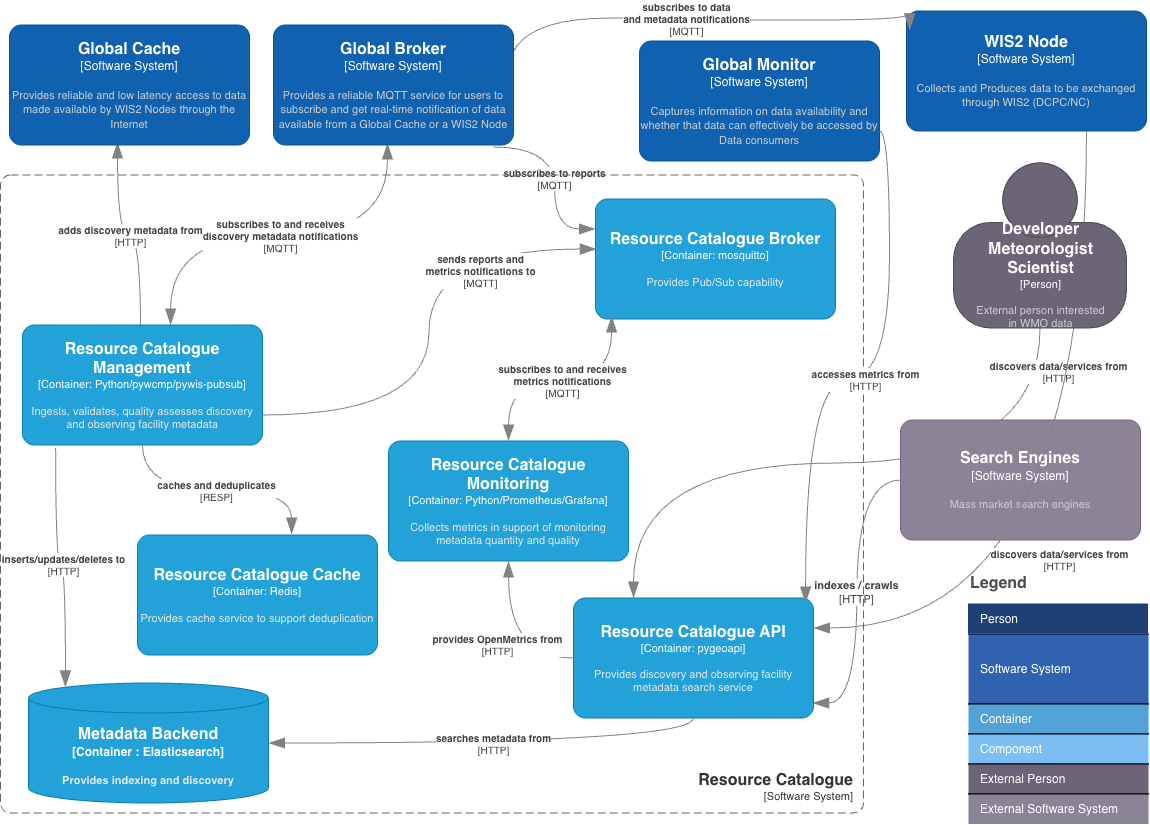
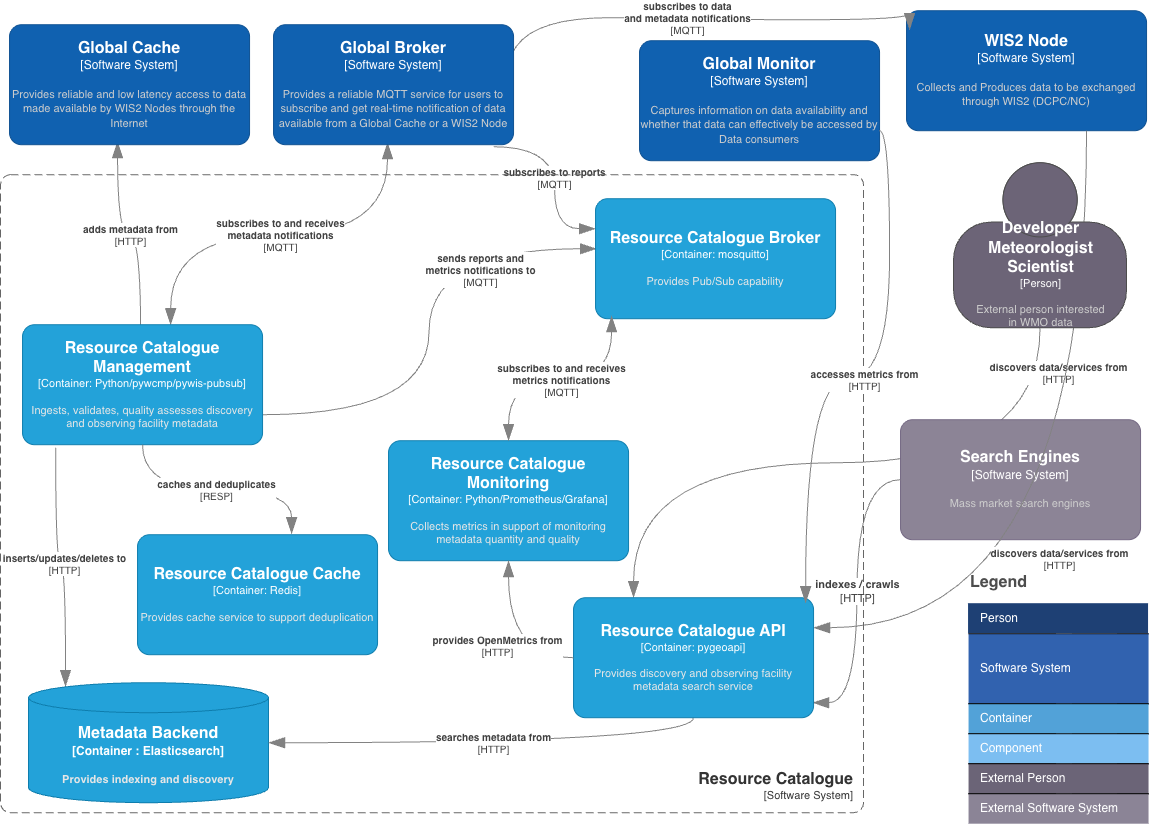
update docs

diff --git a/docs/source/services.rst b/docs/source/services.rst
@@ -37,20 +37,23 @@ OpenAPI/Swagger
 ^^^^^^^^^^^^^^^
 
 The easiest way to test the WMO Resource Catalogue API is using the Swagger endpoint, which allows for testing various capabilities
-and queries into the GDC.
+and queries into the WIS2 GDC and/or WIGOS GOFC.
 
 .. image:: /_static/wmo-resource-catalogue-api-swagger.png
    :width: 80%
    :alt: GDC API Swagger endpoint
 
-Discovery
-^^^^^^^^^
+.. note::
 
-The GDC API allows for a wide range of query predicates to search for data in WIS2 as per the OGC API - Records - Part 1: Core specification.
+   Examples are not URL encoded for clarity / readability, but should be when interacting with the WIS2 GDC API.
 
-The GDC can be searched via the ``/collections/wis2-discovery-metadata/items`` endpoint.  This endpoint provides a number query parameters as described in the examples below.
+WIS2 GDC
+^^^^^^^^
 
-**NOTE**: examples below are not URL encoded for clarity / readability, but should be when interacting with the GDC API.
+The WIS2 GDC API allows for a wide range of query predicates to search for data as per the OGC API - Records - Part 1: Core specification.
+
+The WIS2 GDC API can be searched via the ``/collections/wis2-discovery-metadata/items`` endpoint.  This endpoint provides a number query parameters as described in the examples below.
+
 
 Spatial queries
 """""""""""""""
@@ -142,9 +145,9 @@ Programmatically, a GDC client can query the catalogue and filter the results fo
 Using the ``href`` and ``channel`` properties of a matching link object, a client can connect and subscribe to data notifications for a given dataset.
 
 Validation and quality assessment
-^^^^^^^^^^^^^^^^^^^^^^^^^^^^^^^^^
+"""""""""""""""""""""""""""""""""
 
-The GDC API provides processes to validate WCMP2 records (required by WIS2) and perform quality assessment as a value added service.  Both processes
+The WIS2 GDC API provides processes to validate WCMP2 records (required by WIS2) and perform quality assessment as a value added service.  Both processes
 utilize the `pywcmp`_ package to achieve this capability.
 
 The Swagger interface will provide a sample WCMP2 record as part of the JSON request payload example.  To validate a specific WCMP2, copy/paste the
@@ -153,19 +156,41 @@ as the value of the ``record`` property.
 
 Interfaces for both ETS validation and KPI quality assessment take the same inputs and provide similar output reports.
 
-.. image:: /_static/wmo-resource-catalogue-api-swagger-process-ets.png
+.. image:: /_static/wmo-resource-catalogue-wis2-gdc-api-swagger-process-ets.png
    :width: 80%
    :alt: WMO Resource Catalogue API Swagger Process for WCMP2 validation
+
+
+WIGOS GOFC
+^^^^^^^^^^
+
+The WIGOS GOFC API allows for a wide range of query predicates to search for data as per the OGC API - Records - Part 1: Core specification.
+
+The WIGOS GOFC API can be searched via the ``/collections/wigos-observing-facility-metadata/items`` endpoint. This endpoint provides a number query parameters as described in the examples below.
+
+
+TODO: add examples
+
+Validation and quality assessment
+"""""""""""""""""""""""""""""""""
+
+The WIGOS GOFC API provides processes to validate WMDR2 records as a value added service, utilizing the `pywmdr`_ package to achieve this capability.
+
+The Swagger interface will provide a sample WMDR2 record as part of the JSON request payload example.  To validate a specific WMDR2, copy/paste the WCMP2 record, replacing the contents of the ``record`` property in the example request payload.  If the WMDR2 record is a link, provide the link instead, as the value of the ``record`` property.
+
+.. image:: /_static/wmo-resource-catalogue-wigos-gofc-api-swagger-process-ets.png
+   :width: 80%
+   :alt: WMO Resource Catalogue API Swagger Process for WMDR2 validation
 
 Metrics
 -------
 
-wis2-gdc generates metrics on a daily basis (at 1h) as per the WIS2 Guide Technical Considerations for GDC.  The reuslting metrics are made available at ``/wis2-gdc-metrics.txt`` and made available as per the `OpenMetrics`_ standard.
+wmo-resource-catalogue generates metrics on a daily basis (at 1h) as per the WIS2 Guide Technical Considerations for GDC.  The resulting metrics are made available at ``/wis2-gdc-metrics.txt`` and made available as per the `OpenMetrics`_ standard.
 
 Additional endpoints
 --------------------
 
-In addition to OGC API interfaces, wis2-gdc provides the following additional endpoints:
+In addition to OGC API interfaces, wmo-resource-catalogue also provides the following endpoints:
 
 - ``/wis2-discovery-metadata-archive.zip``: WIS2 Discovery Metadata archive (generated daily)
 - ``/wigos-observing-facility-metadata-archive.zip``: WIGOS Observing Facility Metadata archive (generated daily)
@@ -178,4 +203,5 @@ In addition to OGC API interfaces, wis2-gdc provides the following additional en
 .. _`WCMP2 Abstract Test Suite`: https://wmo-im.github.io/wcmp2/standard/wcmp2-STABLE.html#_conformance_class_abstract_test_suite_normative
 .. _`WCMP2 Key Performance Indicators`: https://wmo-im.github.io/wcmp2/kpi/wcmp2-kpi-DRAFT.html
 .. _`pywcmp`: https://github.com/World-Meteorological-Organization/pywcmp
+.. _`pywmdr`: https://github.com/wmo-im/pywmdr
 .. _`OpenMetrics`: https://openmetrics.io

diff --git a/docs/source/administration.rst b/docs/source/administration.rst
@@ -26,11 +26,8 @@ As a convenience, the ``Makefile`` in the root directory provides shortcuts to m
    # start all containers
    make up
 
-   # reinitialize backend
-   make reinit-backend
-
-   # start all containers in dev mode
-   make dev
+   # reinitialize backends
+   make reinit-backends
 
    # view all container logs in realtime
    make logs
@@ -48,4 +45,7 @@ As a convenience, the ``Makefile`` in the root directory provides shortcuts to m
    make rm
 
    # perform pruning of Docker system artifacts
-   make rm
+   make clean
+
+   # monitor running containers
+   make ps

diff --git a/docs/source/configuration.rst b/docs/source/configuration.rst
@@ -74,7 +74,7 @@ WIS2 Global Broker environment variables are defined as comma-separated values (
 
 .. note::
 
-   - the naming convention is ``WIS_GDC_GB_LINK_<LABEL>``, where ``<LABEL>`` can be named as desired to identify the GB
+   - the naming convention is ``WMO_RESOURCE_CATALOGUE_GB_LINK_<LABEL>``, where ``<LABEL>`` can be named as desired to identify the GB
    - at least one Global Broker environment variable is required
    - the centre name may contain commas
 
